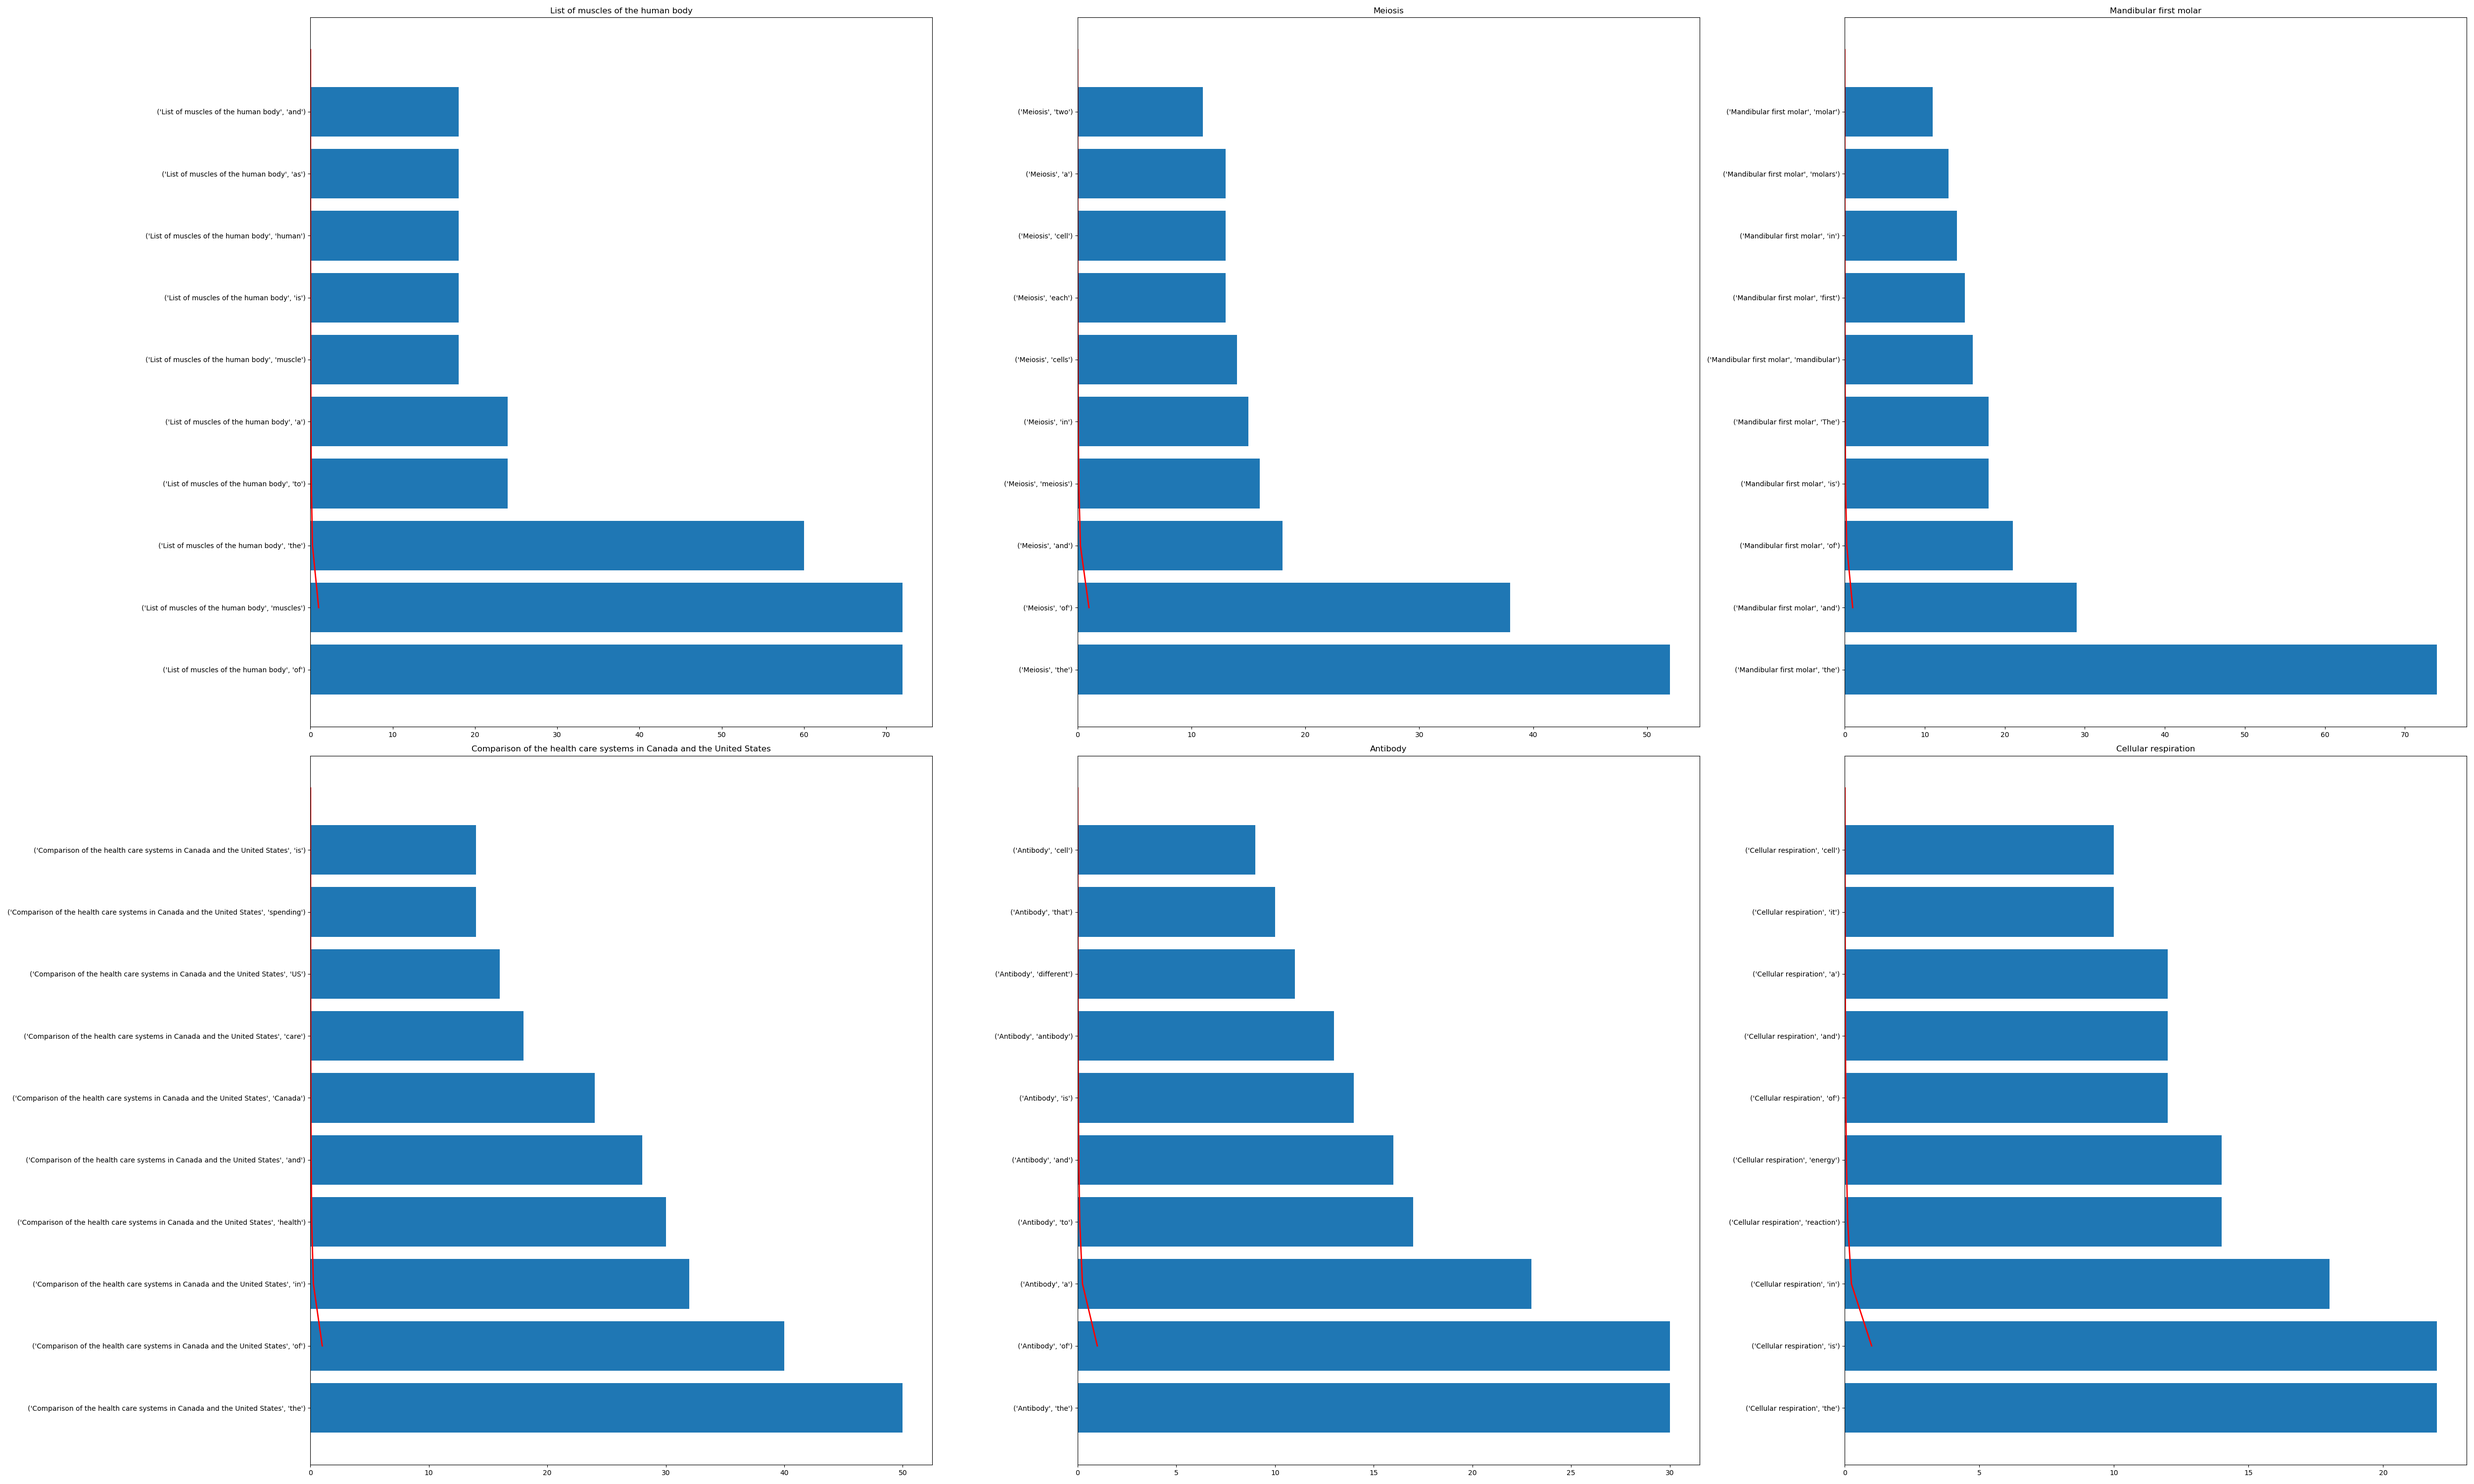
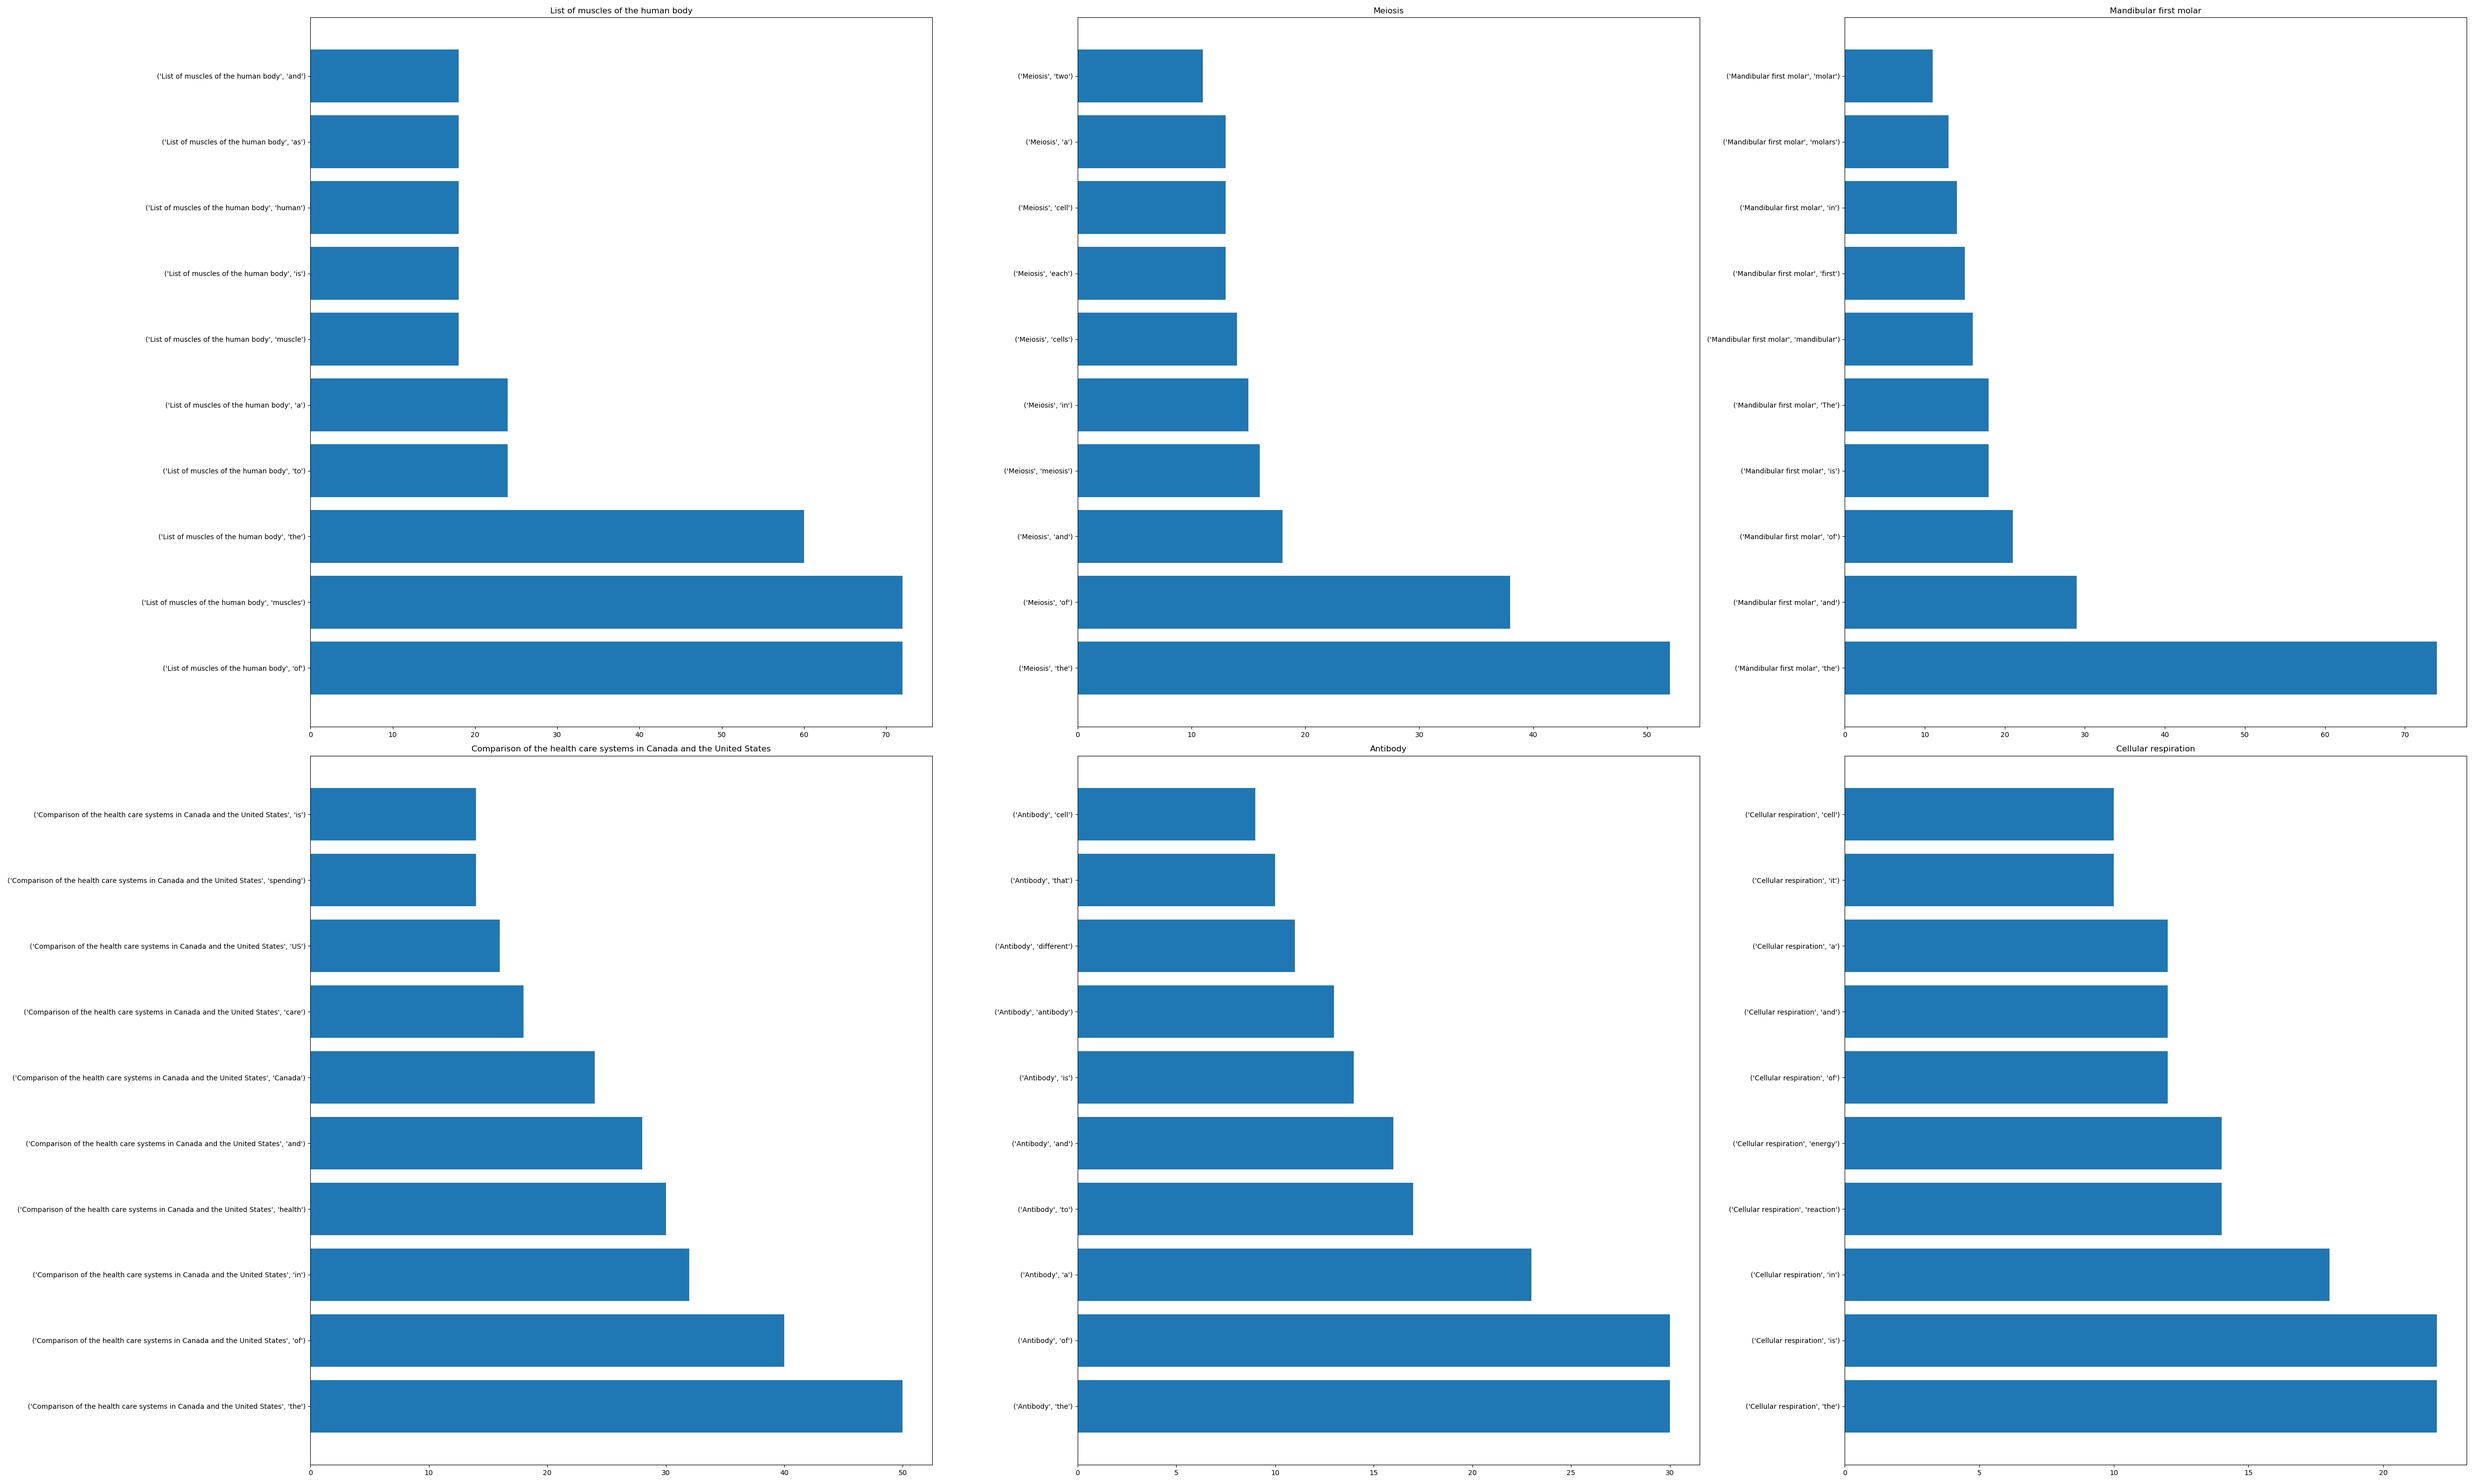
Made graphs to display zipf's law. Added more to README.

diff --git a/src/plotting.py b/src/plotting.py
@@ -72,7 +72,7 @@ def pretty_plot_top_n(series, top_n=5, index_level=0, filepath=None):
     make_barchart(r.index, r, filepath=filepath, figsize=(50, 30), \
                   title='Count of the Most Frequent Word in all Answers for Each Question')
 
-def plot_multi_top_n(series_arr, index_level=0, top_n=5, filepath=None, numrows=1, numcols=1, zipf=False):
+def plot_multi_top_n(series_arr, index_level=0, top_n=5, filepath=None, numrows=1, numcols=1):
     fig, axs = plt.subplots(numrows, numcols, figsize=(50,30))
     index = 0
     for i in range(0, numrows):
@@ -91,14 +91,42 @@ def plot_multi_top_n(series_arr, index_level=0, top_n=5, filepath=None, numrows=
             ax.set_yticks(list(range(len(r.index))))
             ax.set_yticklabels(r.index)
             ax.barh(range(len(r.index)), width=r)
-            if zipf:
-                #define zipf distribution parameter. Has to be >1
-                a = 2.
-                end = len(r.index)
-                new_x = np.array(range(1, end+1))
-                # new_x = np.arange(1., 70.)
-                y = (new_x)**(-a) / special.zetac(a)
-                ax.plot(y/max(y), new_x, linewidth=2, color='r')
+
+            title = r.index[0][0]
+            ax.set_title(title)
+
+            index += 1
+
+    plt.tight_layout()
+    plt.savefig(filepath)
+    plt.close()
+
+def plot_zipf(series_arr, index_level=0, top_n=5, filepath=None, numrows=1, numcols=1):
+    fig, axs = plt.subplots(numrows, numcols, figsize=(50,30))
+    index = 0
+    for i in range(0, numrows):
+        for j in range(0, numcols):
+            # Check for end of array
+            if index == len(series_arr):
+                plt.savefig(filepath)
+                plt.tight_layout()
+                plt.close()
+                return
+            r = series_arr[index] \
+                .groupby(level=index_level) \
+                .nlargest(top_n) \
+                .reset_index(level=index_level, drop=True)
+            ax = axs[i, j]
+            ax.set_yticks(list(range(len(r.index))))
+            ax.set_yticklabels(r.index)
+            ax.barh(range(len(r.index)), width=np.log10(r))
+            #define zipf distribution parameter. Has to be >1
+            a = 2.
+            end = len(r.index)
+            new_x = np.array(range(1, end+1))
+            y = (new_x)**(-a) / special.zetac(a)
+            new_x = np.array(range(0, end))
+            ax.plot(y/max(y), new_x, linewidth=2, color='r')
 
             title = r.index[0][0]
             ax.set_title(title)

diff --git a/src/main.py b/src/main.py
@@ -20,13 +20,15 @@ def count_words_in_data(healthcare_df, text_df, remove_stop=False):
 def plotting_word_counts(healthcare_df, text_df, counts_df, total_counts_df, labels):
     pretty_plot_top_n(counts_df['n_w'], top_n=3, filepath='graphs/wordcount_with_stopwords.png')
     top_n_dfs = make_violins_pipeline(healthcare_df, labels)
-    plot_multi_top_n(top_n_dfs, filepath='graphs/collaged_topn.png', top_n=10, numrows=2, numcols=3, zipf=True)
+    plot_zipf(top_n_dfs, filepath='graphs/collaged_zipf.png', top_n=20, numrows=2, numcols=3)
+    plot_multi_top_n(top_n_dfs, filepath='graphs/collaged_topn.png', top_n=10, numrows=2, numcols=3)
     make_counts_violin(counts_df, filepath='graphs/healthcare_violin.png')
     make_counts_violin(total_counts_df, filepath='graphs/wikiQA_violin.png')
 
 def plotting_word_counts_no_stopwords(healthcare_df, text_df, counts_df, total_counts_df, labels):
     pretty_plot_top_n(counts_df['n_w'], top_n=3, filepath='graphs/wordcount_no_stopwords.png')
     top_n_dfs = make_violins_pipeline(healthcare_df, labels, remove_stop=True)
+    plot_zipf(top_n_dfs, filepath='graphs/collaged_zipf_no_stopwords.png', top_n=20, numrows=2, numcols=3)
     plot_multi_top_n(top_n_dfs, filepath='graphs/collaged_topn_no_stopwords.png', top_n=5, numrows=2, numcols=3)
     make_counts_violin(counts_df, filepath='graphs/healthcare_violin_no_stopwords.png')
     make_counts_violin(total_counts_df, filepath='graphs/wikiQA_violin_no_stopwords.png')  
@@ -78,6 +80,8 @@ if __name__ == '__main__':
     next_6 = ['Vitamin', 'Diagnosis-related group', 'Multiple sclerosis', 'Vitamin A', 'Digestion', \
               'Health care in the United States']
     next_n_dfs = make_violins_pipeline(healthcare_df, next_6)
+    plot_zipf(next_n_dfs, filepath='graphs/next6_zipf.png', top_n=20, numrows=2, numcols=3)
     plot_multi_top_n(next_n_dfs, filepath='graphs/collaged_nextn.png', top_n=5, numrows=2, numcols=3)
     next_n_dfs = make_violins_pipeline(healthcare_df, next_6, remove_stop=True)
     plot_multi_top_n(next_n_dfs, filepath='graphs/collaged_nextn_no_stopwords.png', top_n=5, numrows=2, numcols=3)
+    plot_zipf(next_n_dfs, filepath='graphs/next6_zipf_no_stopwords.png', top_n=20, numrows=2, numcols=3)

diff --git a/README.md b/README.md
@@ -50,4 +50,27 @@ def count_words_pipeline(df, remove_stop=False):
     words_df = remove_empty_word_cols(words_df)
     return count_word_ocurrence(words_df)
 ```
+This was the resulting dataframe that the above function returned:
 
+![word count dataframe](images/word_count_dataframe.png)
+
+With this dataframe I was able to run it through a pipeline I had created to create bar charts displaying the top 10 words with the highest word count and violin plots of the distribution of word counts for each category.
+Most of the violin charts didn't provide much insight and looked similar to this one:
+
+![healthcare violin](graphs/healthcare_violin.png) 
+
+But here are 2 of my favorites...
+
+### Diagnosis-related with no stop words:
+
+![diagnosis-related with no stop words](graphs/Diagnosis-related_group_violin_no_stop.png)
+
+### List of muscles of the human body with stop words
+
+![muscle list](graphs/List_of_muscles_of_the_human_body_violin.png)
+
+## An Interesting Trend...Zipf's Law
+
+### Zipf's Law
+From Wikipedia:
+> Zipf's law is an empirical law formulated using mathematical statistics that refers to the fact that many types of data studied in the physical and social sciences can be approximated with a Zipfian distribution, one of a family of related discrete power law probability distributions. Zipf distribution is related to the zeta distribution, but is not identical... Thus the most frequent word will occur approximately twice as often as the second most frequent word, three times as often as the third most frequent word, etc.: the rank-frequency distribution is an inverse relation. For example, in the Brown Corpus of American English text, the word the is the most frequently occurring word, and by itself accounts for nearly 7% of all word occurrences (69,971 out of slightly over 1 million). True to Zipf's Law, the second-place word of accounts for slightly over 3.5% of words (36,411 occurrences), followed by and (28,852).
